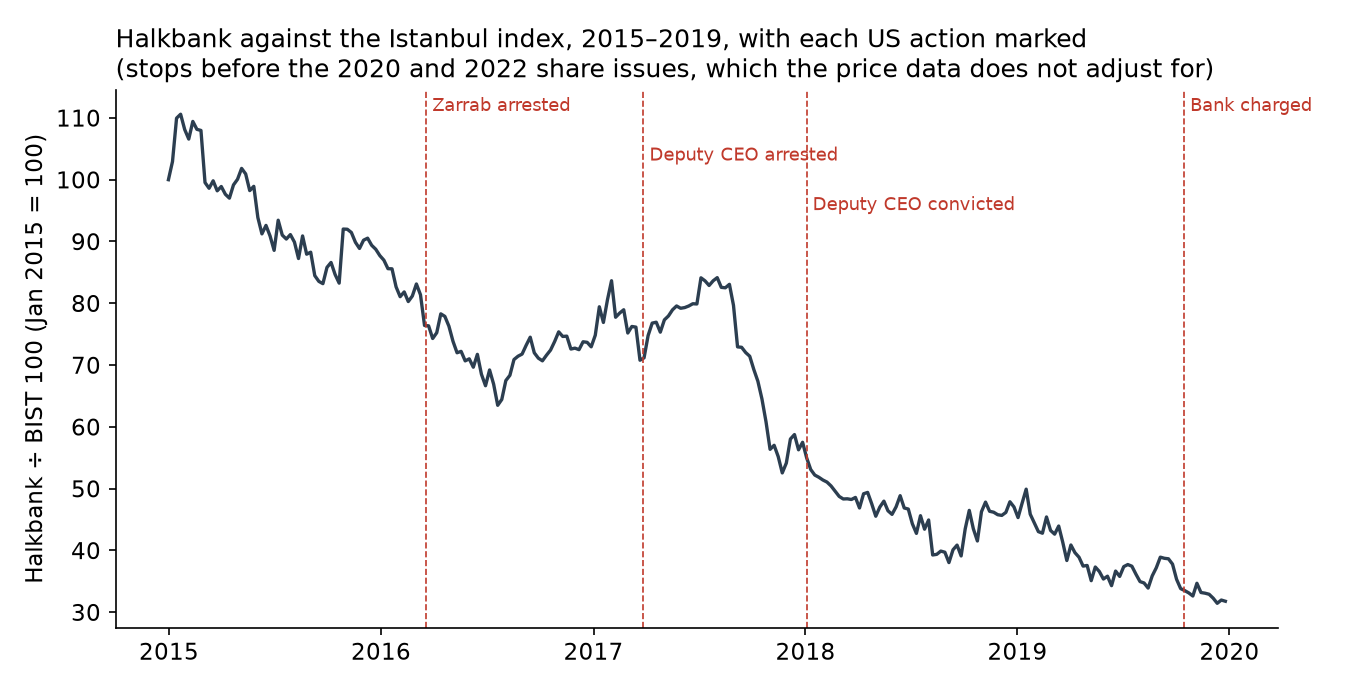
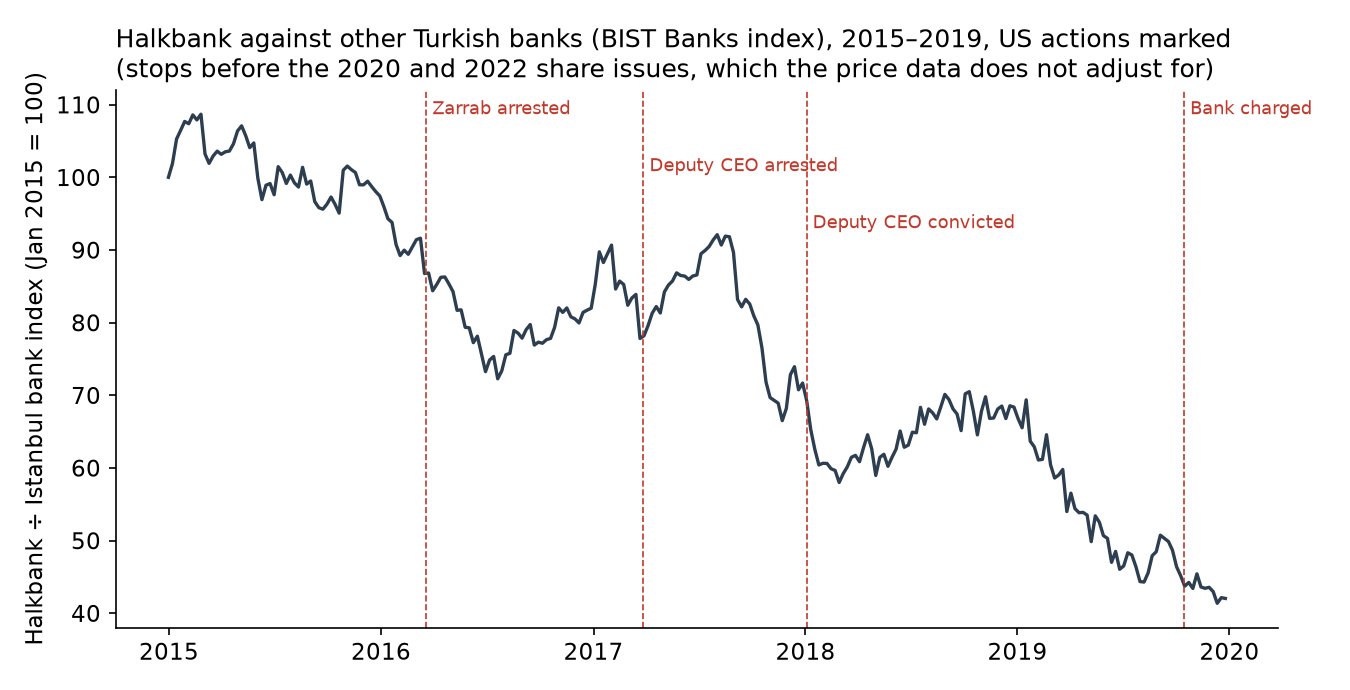
Check Halkbank against Turkish bank index; document ZTE suspensions

diff --git a/scripts/charts.py b/scripts/charts.py
@@ -98,9 +98,9 @@ ax.set_title('Every US Iran action against a listed company we measured\nMost mo
 ax.legend(frameon=False, fontsize=9.5, loc='lower left')
 fig.tight_layout(); fig.savefig('assets/actions_timeline.png', dpi=150)
 
-# Halkbank vs BIST 100
+# Halkbank vs BIST Banks index
 a, b = dt.datetime(2015, 1, 1, tzinfo=dt.UTC), dt.datetime(2020, 1, 1, tzinfo=dt.UTC)
-h, i = dict(yahoo('HALKB.IS', a, b, '1wk')), dict(yahoo('XU100.IS', a, b, '1wk'))
+h, i = dict(yahoo('HALKB.IS', a, b, '1wk')), dict(yahoo('XBANK.IS', a, b, '1wk'))
 d = sorted(set(h) & set(i)); r0 = h[d[0]] / i[d[0]]
 fig, ax = plt.subplots(figsize=(9, 4.6))
 ax.plot(d, [100 * h[t] / i[t] / r0 for t in d], color='#2c3e50', lw=1.6)
@@ -110,7 +110,7 @@ for k, (m, lab) in enumerate(marks):
     md = dt.date.fromisoformat(m)
     ax.axvline(md, color='#c0392b', lw=0.8, ls='--')
     ax.text(md, ax.get_ylim()[1] * (0.97 - 0.07 * (k % 3)), ' ' + lab, fontsize=8.5, color='#c0392b')
-ax.set_ylabel('Halkbank ÷ BIST 100 (Jan 2015 = 100)')
-ax.set_title('Halkbank against the Istanbul index, 2015–2019, with each US action marked\n(stops before the 2020 and 2022 share issues, which the price data does not adjust for)', loc='left', fontsize=12)
+ax.set_ylabel('Halkbank ÷ Istanbul bank index (Jan 2015 = 100)')
+ax.set_title('Halkbank against other Turkish banks (BIST Banks index), 2015–2019, US actions marked\n(stops before the 2020 and 2022 share issues, which the price data does not adjust for)', loc='left', fontsize=12)
 ax.xaxis.set_major_locator(mdates.YearLocator(1))
 fig.tight_layout(); fig.savefig('assets/halkbank_vs_bist100.png', dpi=150)

diff --git a/index.md b/index.md
@@ -82,7 +82,7 @@ Since 2025 the US has sanctioned Chinese oil terminals and refineries outright f
 
 ![Typical share move around US Iran actions, by type of action](assets/price_path_by_action.png)
 
-- **Main business cut off** (ZTE Hong Kong 2016 and 2018, COSCO Shipping Energy Hong Kong 2019, Hengli 2026): typically −16% on the first day and −23% after 5 and 20 trading days. ZTE's shares were suspended both times, so for ZTE the days count from when trading restarted.
+- **Main business cut off** (ZTE Hong Kong 2016 and 2018, COSCO Shipping Energy Hong Kong 2019, Hengli 2026): typically −16% on the first day and −23% after 5 and 20 trading days. ZTE's shares were suspended both times, so for ZTE the days count from when trading restarted. The suspensions ran from 2016-03-07 to 04-06 and from 2018-04-17 to 06-12. Over each suspension the index is measured over the same dates. In 2018 ZTE had already agreed a $1bn settlement with the US by the time trading restarted, so its −41% first-day fall in Hong Kong (against the index) covers both the ban and the settlement.
 - **Halkbank charges** (2016–2019): −1% on the first day, −5% after a week, −6% after a month.
 - **Part-owned terminals** (2025): −1% to −3%.
 - **Fines** (34 cases): no typical move at all.
@@ -245,11 +245,17 @@ Every source is saved in [receipts/banks/](https://github.com/pvijeh/iran-oil-te
 | [US Treasury](https://home.treasury.gov/news/press-releases/sb0622) | 2026-09-04 | Golden Global Bank | No | OFAC sanctions it | – | – | – |
 | [US Treasury](https://home.treasury.gov/news/press-releases/sb0629) | 2026-09-14 | VTB | Moscow Exchange | OFAC sanctions it; already under US Russia sanctions | −1.2% | +0.2% | – |
 
-![Halkbank against the Istanbul index, 2015–2019](assets/halkbank_vs_bist100.png)
+![Halkbank against other Turkish banks, 2015–2019](assets/halkbank_vs_bist100.png)
 
-- Halkbank lost about two-thirds of its value against the Istanbul index between 2015 and the end of 2019. Most of the fall came between the actions, not on the days the US announced them, especially in the months after the deputy CEO's arrest.
-- Not all of that fall was the US case. Turkish banks were also hit by the 2018 currency crisis (not separated out here).
-- The chart stops at 2019 because Halkbank issued new shares in 2020 and 2022, and the free price data doesn't adjust for that.
+- **Halkbank fell 58% from January 2015 to December 2019. Over the same period the Istanbul bank index was flat (0%), and VakifBank, Garanti and Akbank each rose 6–15%.** So the fall was specific to Halkbank, not Turkey's banks in general.
+- **The 2018 currency crisis doesn't explain it.** In 2018 Halkbank fell 33%, the same as the bank index (−32%).
+- **The gap opened in the other years:**
+  - 2015 to the Zarrab arrest: Halkbank −29%, bank index −18%.
+  - Zarrab arrest to the deputy CEO's arrest: Halkbank +3%, bank index +15%.
+  - Deputy CEO's arrest to his conviction: Halkbank −1%, bank index +11%.
+  - 2019, the year it was charged: Halkbank −13%, bank index +41%.
+- **So most of the damage came between the announcements, not on the days of them.** This is our reading of the prices. We haven't checked other Halkbank news in those years.
+- The chart stops at 2019. Halkbank issued new shares in 2020 and 2022, and the free price data doesn't adjust for that.
 
 Earlier European bank fines are in the share-price table above. Iraq's banks cut off in 2012 and 2023–25 trade on the Iraq Stock Exchange, which has no free price data.
 
